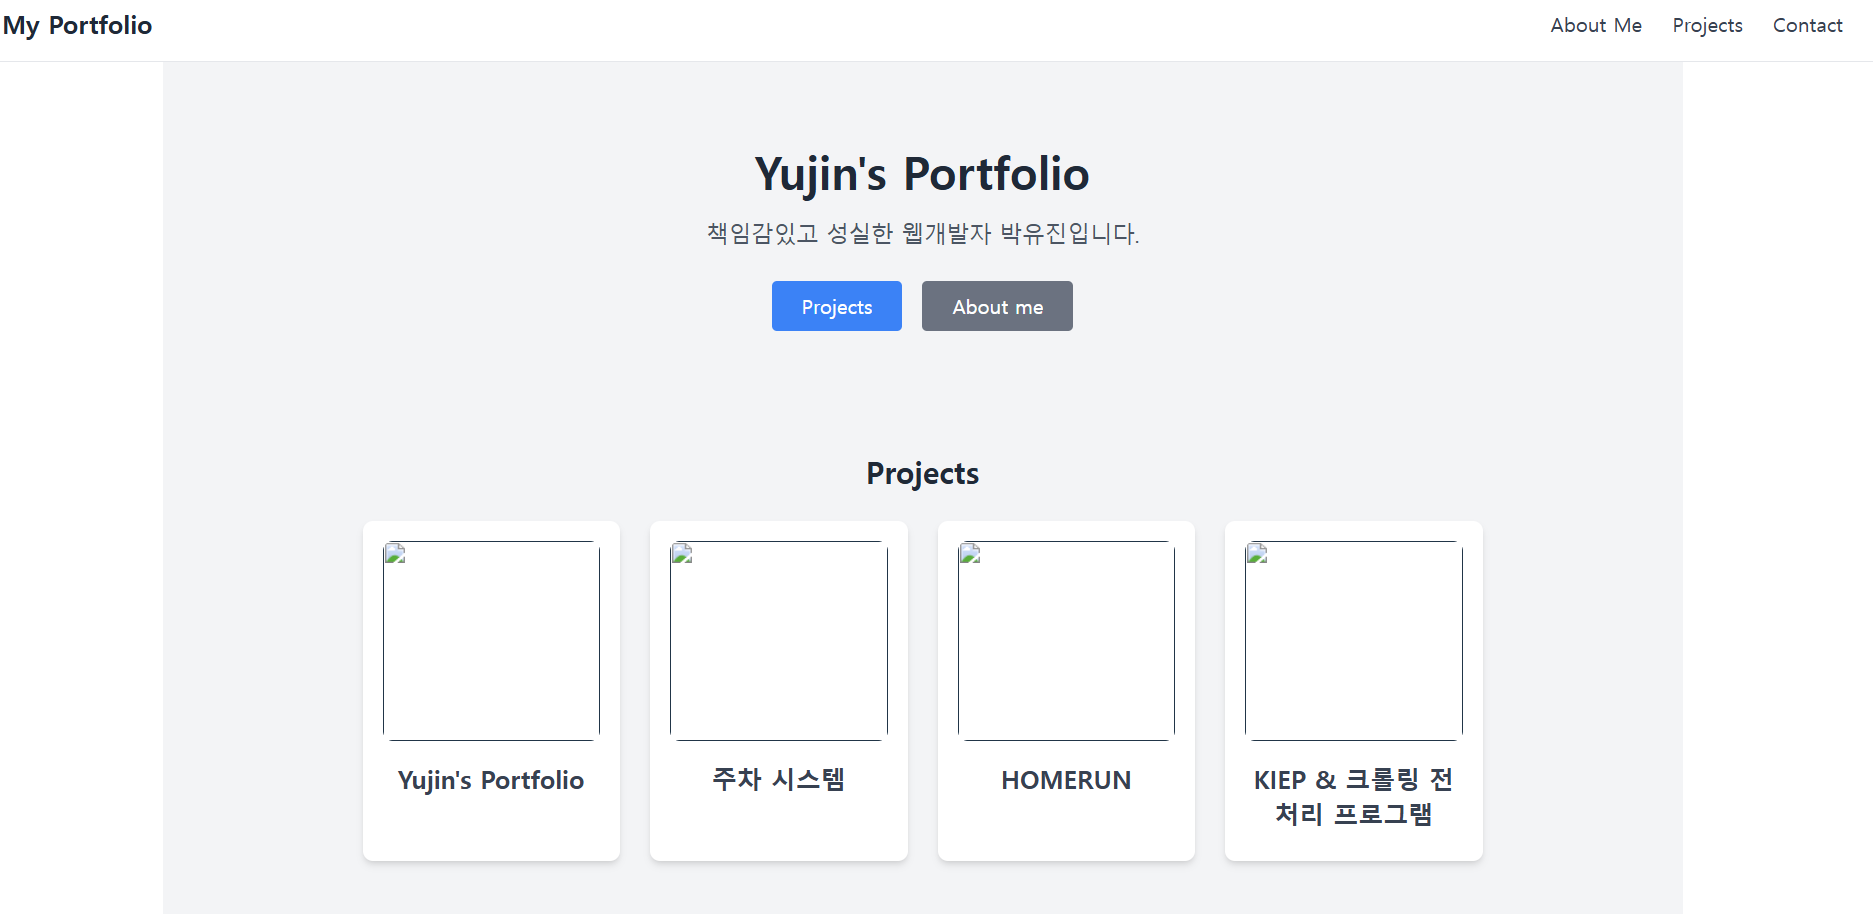
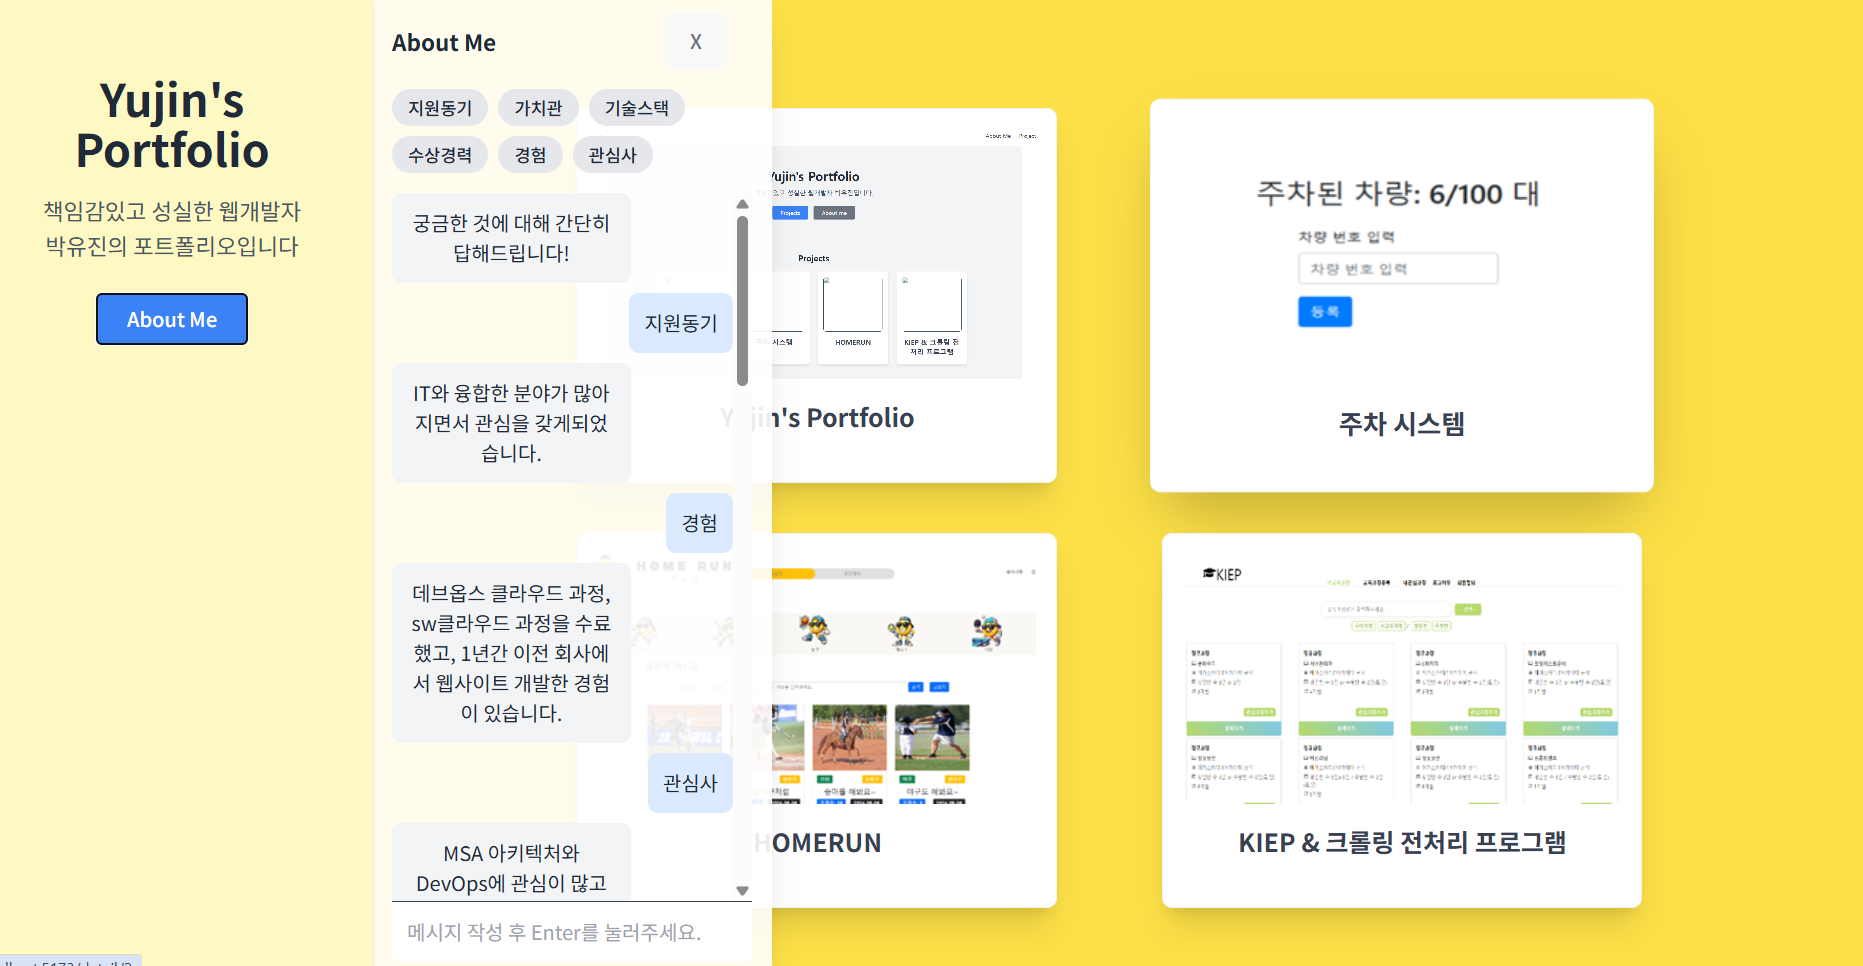
이미지 수정

diff --git a/src/components/Chatbot.jsx b/src/components/Chatbot.jsx
@@ -3,12 +3,12 @@ const VITE_CHATBOT_URL = import.meta.env.VITE_CHATBOT_URL || "http://127.0.0.1:8
 
 function Chatbot({ chatbotOpen, toggleChatbot }) {
   const [messages, setMessages] = useState([
-    { from: 'bot', text: `저에 대해 궁금한 것이 무엇인가요?` }
+    { from: 'bot', text: `궁금한 것에 대해 간단히 답해드립니다!` }
   ]);
   const [input, setInput] = useState('');
   const chatEndRef = useRef(null);
 
-  const suggestions = ['성격', '가치관', '수상경력'];
+  const suggestions = ['지원동기', '가치관', '기술스택', '수상경력', '경험', '관심사' ];
 
   const sendMessage = async (question) => {
     setMessages((prev) => [...prev, { from: 'user', text: question }]);
@@ -37,8 +37,9 @@ function Chatbot({ chatbotOpen, toggleChatbot }) {
 
   useEffect(() => {
     // chatEndRef.current.scrollIntoView()를 호출하여 최신 메시지로 스크롤
-    chatEndRef.current?.scrollIntoView({ behavior: 'smooth' });
-  }, [messages]);
+      chatEndRef.current?.scrollIntoView({ behavior: 'smooth' });
+    }, [messages]
+  );
 
   return (
     <div className="z-10">
@@ -49,7 +50,7 @@ function Chatbot({ chatbotOpen, toggleChatbot }) {
       >
         <div className="flex justify-between items-center mb-4">
           <h3 className="text-lg font-semibold text-gray-800">About Me</h3>
-          <button onClick={toggleChatbot} className="text-gray-500 text-m mr-5">X</button>
+          <button onClick={toggleChatbot} className="text-gray-500 text-m mr-5 border-2 border-gray-300">X</button>
         </div>
 
         {/* 추천 질문 버튼 영역 */}
@@ -58,7 +59,7 @@ function Chatbot({ chatbotOpen, toggleChatbot }) {
             <button
               key={idx}
               onClick={() => handleSuggestionClick(item)}
-              className="bg-gray-200 text-gray-800 px-3 py-1 rounded-full text-sm hover:bg-gray-300 transition"
+              className="bg-blue-500 text-white px-3 py-1 rounded-full text-sm hover:bg-blue-600 transition"
             >
               {item}
             </button>
@@ -78,6 +79,7 @@ function Chatbot({ chatbotOpen, toggleChatbot }) {
                 <p className="text-gray-800">{msg.text}</p>
               </div>
             ))}
+            <div ref={chatEndRef} />
           </div>
         </div>
 
@@ -85,7 +87,7 @@ function Chatbot({ chatbotOpen, toggleChatbot }) {
         {/* 입력창 */}
         <input
           type="text"
-          placeholder="메시지 작성 후 Enter를 눌러주세요."
+          placeholder="질문 작성 후 Enter를 눌러주세요."
           className="p-3 border-t border-gray-700 rounded-b-lg w-full"
           value={input}
           onChange={(e) => setInput(e.target.value)}

diff --git a/src/pages/Detail.jsx b/src/pages/Detail.jsx
@@ -1,13 +1,14 @@
 import React, { useEffect, useState } from 'react';
-import { useParams } from 'react-router-dom';
+import { useParams, useNavigate } from 'react-router-dom';
 import Slider from 'react-slick';
 const VITE_FASTAPI_URL = import.meta.env.VITE_FASTAPI_URL || "http://localhost:8000";
 
 const Detail = () => {
   const { num } = useParams();
+  const navigate = useNavigate(); 
   const [detail, setDetail] = useState([]);
 
-  console.log("num: "+num)
+  // console.log("num: "+num)
 
   const fetchDetails = async () => {
     const res = await fetch(`${VITE_FASTAPI_URL}/detail/${num}`);
@@ -31,14 +32,22 @@ const Detail = () => {
   };
 
   return (
-    <div className="max-w-4xl mx-auto mt-20 p-4 text-left">
+    <div className="max-w-4xl mx-auto p-4 text-left">
+      
+      <button
+        onClick={() => navigate('/')}
+        className="mb-4 px-4 py-2 bg-blue-500 hover:bg-blue-600 text-white rounded-md transition"
+      >
+        ← 이전
+      </button>
+      
       <h1 className="text-4xl font-bold text-gray-900 mb-4 border-b-2 border-gray-500 pb-6 text-center">
-        "{detail.title}" 상세 정보
+        " {detail.title} " 상세 정보
       </h1>
 
       {/* 웹사이트 이미지 */}
       <section>
-        <h2 className="text-xl font-semibold text-gray-700 mb-2">웹사이트 미리보기</h2>
+        <h2 className="text-xl font-semibold text-gray-700 mb-2">웹사이트</h2>
         <div className="text-xl font-semibold text-gray-700 mb-2 mt-5">
           <div className="w-full">
             {/* 슬라이더 적용 */}
@@ -48,7 +57,7 @@ const Detail = () => {
                   <img
                     src={`/src/assets/${web}`}
                     alt={`Design ${index}`}
-                    className="w-full h-[400px] object-contain mx-auto"
+                    className="w-full h-[400px] object-contain"
                   />
                 </div>
               ))}

diff --git a/src/components/ProfileSection.jsx b/src/components/ProfileSection.jsx
@@ -3,12 +3,13 @@ function ProfileSection({ toggleChatbot }) {
       <div className="w-[320px] bg-yellow-100 p-6 rounded-lg shadow-md z-20">
         <h1 className="text-4xl font-bold text-gray-800 mb-4 mt-10">Yujin's Portfolio</h1>
         <p className="text-lg text-gray-600 mb-6">
-          책임감있고 성실한 웹개발자 박유진입니다.
+          책임감있고 성실한 웹개발자<br />
+          박유진의 포트폴리오입니다
         </p>
         <div className="flex justify-center space-x-4">
           <button
             onClick={toggleChatbot}
-            className="px-6 py-2 bg-gray-500 text-white rounded hover:bg-gray-600"
+            className="px-6 py-2 bg-blue-500 text-white rounded hover:bg-blue-600"
           >
             About Me
           </button>

diff --git a/src/components/ProjectList.jsx b/src/components/ProjectList.jsx
@@ -21,7 +21,7 @@ function ProjectList() {
 
   return (
     <section
-      className="mt-5 min-h-screen flex flex-col items-center justify-center px-4"
+      className="min-h-screen flex flex-col items-center justify-center px-4"
     >
       <div className="grid grid-cols-1 sm:grid-cols-2 gap-10 max-w-4xl w-full justify-items-center">
         {projects.map((project) => (

diff --git a/src/components/Footer.jsx b/src/components/Footer.jsx
@@ -2,7 +2,7 @@ import React from 'react';
 
 const Footer = () => {
   return (
-    <footer className="w-full bg-white border-t border-gray-200 text-center py-4 mt-12">
+    <footer className="w-full bg-yellow-300 border-t border-gray-200 text-center">
       <p className="text-gray-500 text-sm">
         © 2025 Yujin's Portfolio. All rights reserved.
       </p>

diff --git a/src/App.jsx b/src/App.jsx
@@ -19,7 +19,7 @@ function App() {
           <Route path="/detail/:num" element={<Detail />} />
         </Routes>
       </div>
-      <Footer />
+      {/* <Footer /> */}
       </div>
     </Router>
   );
